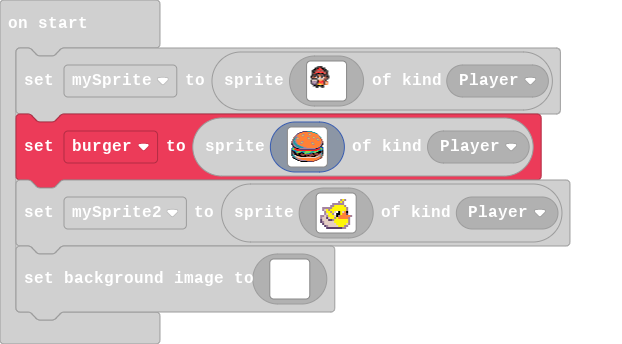
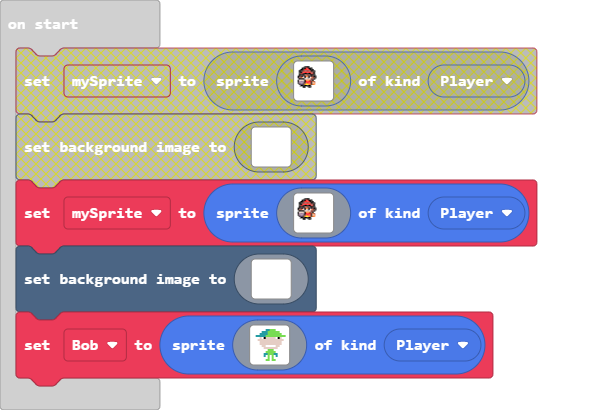
Update main.blocks, main.ts

diff --git a/main.ts b/main.ts
@@ -146,3 +146,21 @@ scene.setBackgroundImage(img`
     ................................................................................................................................................................
     ................................................................................................................................................................
     `)
+let Bob = sprites.create(img`
+    . . . . . . 6 6 7 7 7 . . . . . 
+    . . . . 6 6 6 7 7 7 7 7 7 . . . 
+    . . . 6 6 6 6 7 7 7 7 7 7 7 . . 
+    . 6 6 6 6 6 7 7 7 7 7 7 7 7 7 7 
+    . . . d 1 f d d d d d 1 f d . . 
+    . . d d d d d d d d d d d d d . 
+    . . . d d d d d d d d d d d . . 
+    . . . d d d d d d d d d d d . . 
+    . . . . d d 1 1 1 1 1 d d . . . 
+    . . . . . d d d d d d d . . . . 
+    . . . . . . . 7 7 7 . . . . . . 
+    . . . . . . 7 7 7 7 7 . . . . . 
+    . . . . . 6 6 7 7 7 6 6 . . . . 
+    . . . . . 6 . 7 . 7 . 6 . . . . 
+    . . . . . . . 7 . 7 . . . . . . 
+    . . . . . . 7 7 . 7 7 . . . . . 
+    `, SpriteKind.Player)
